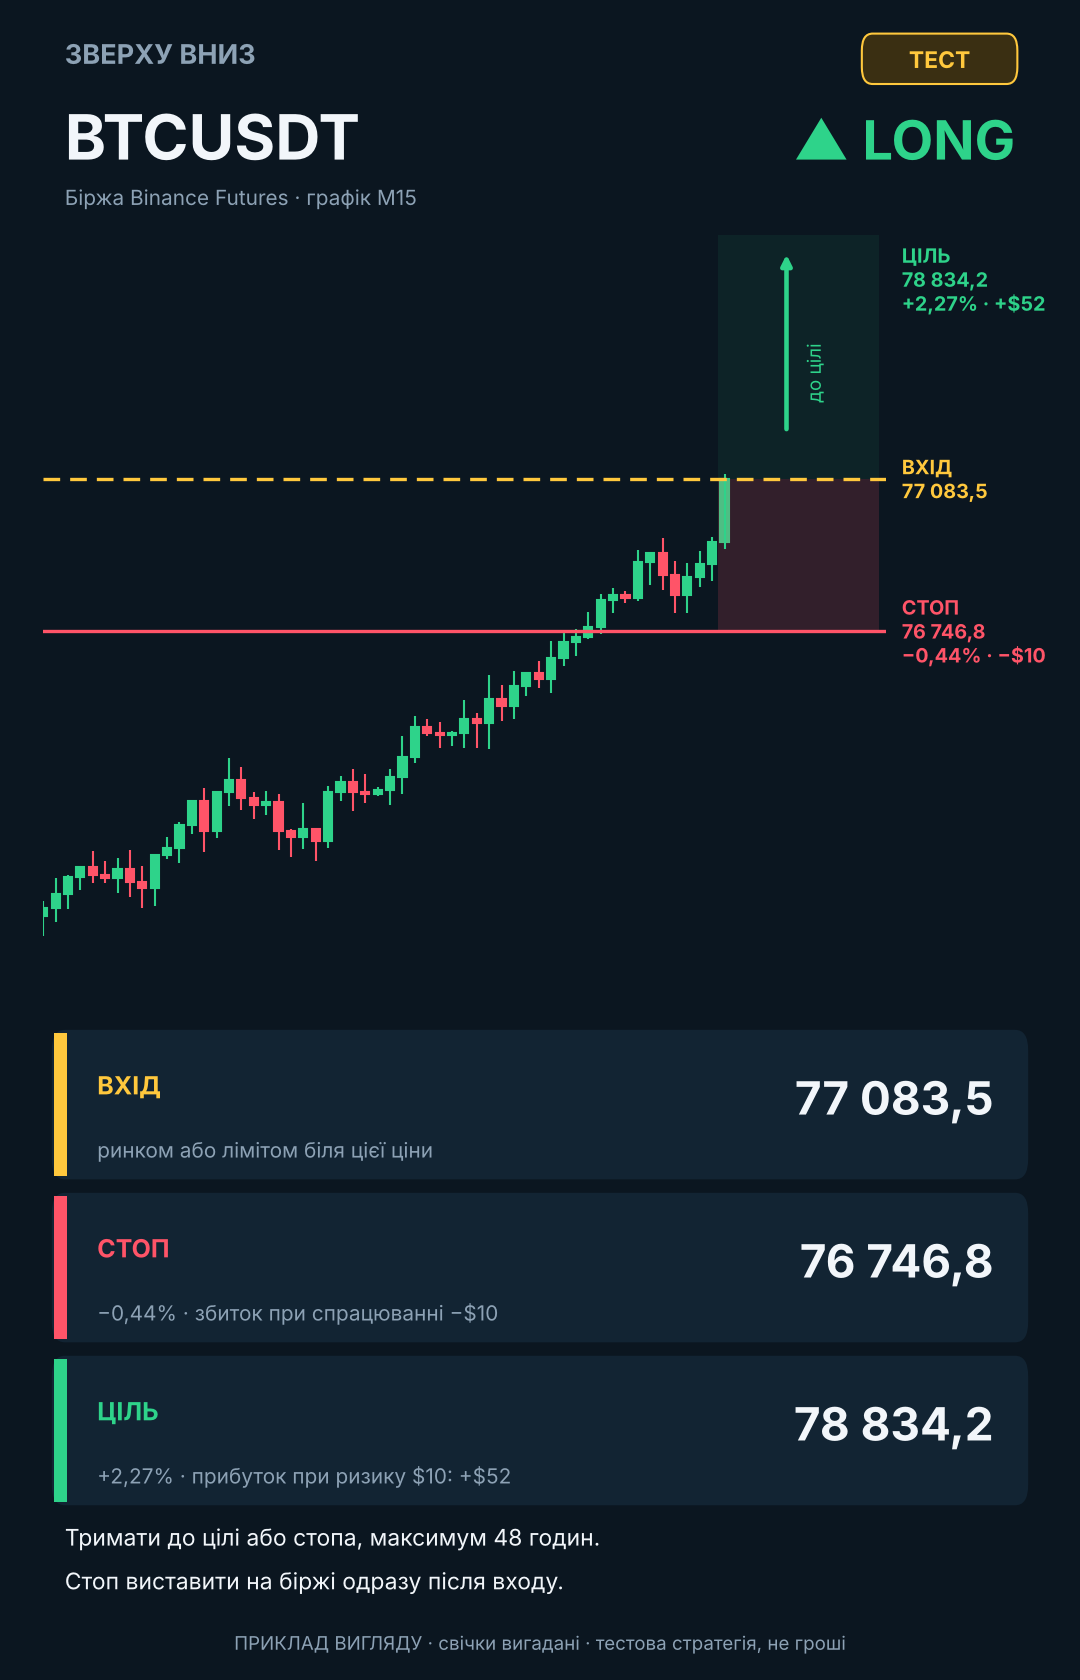
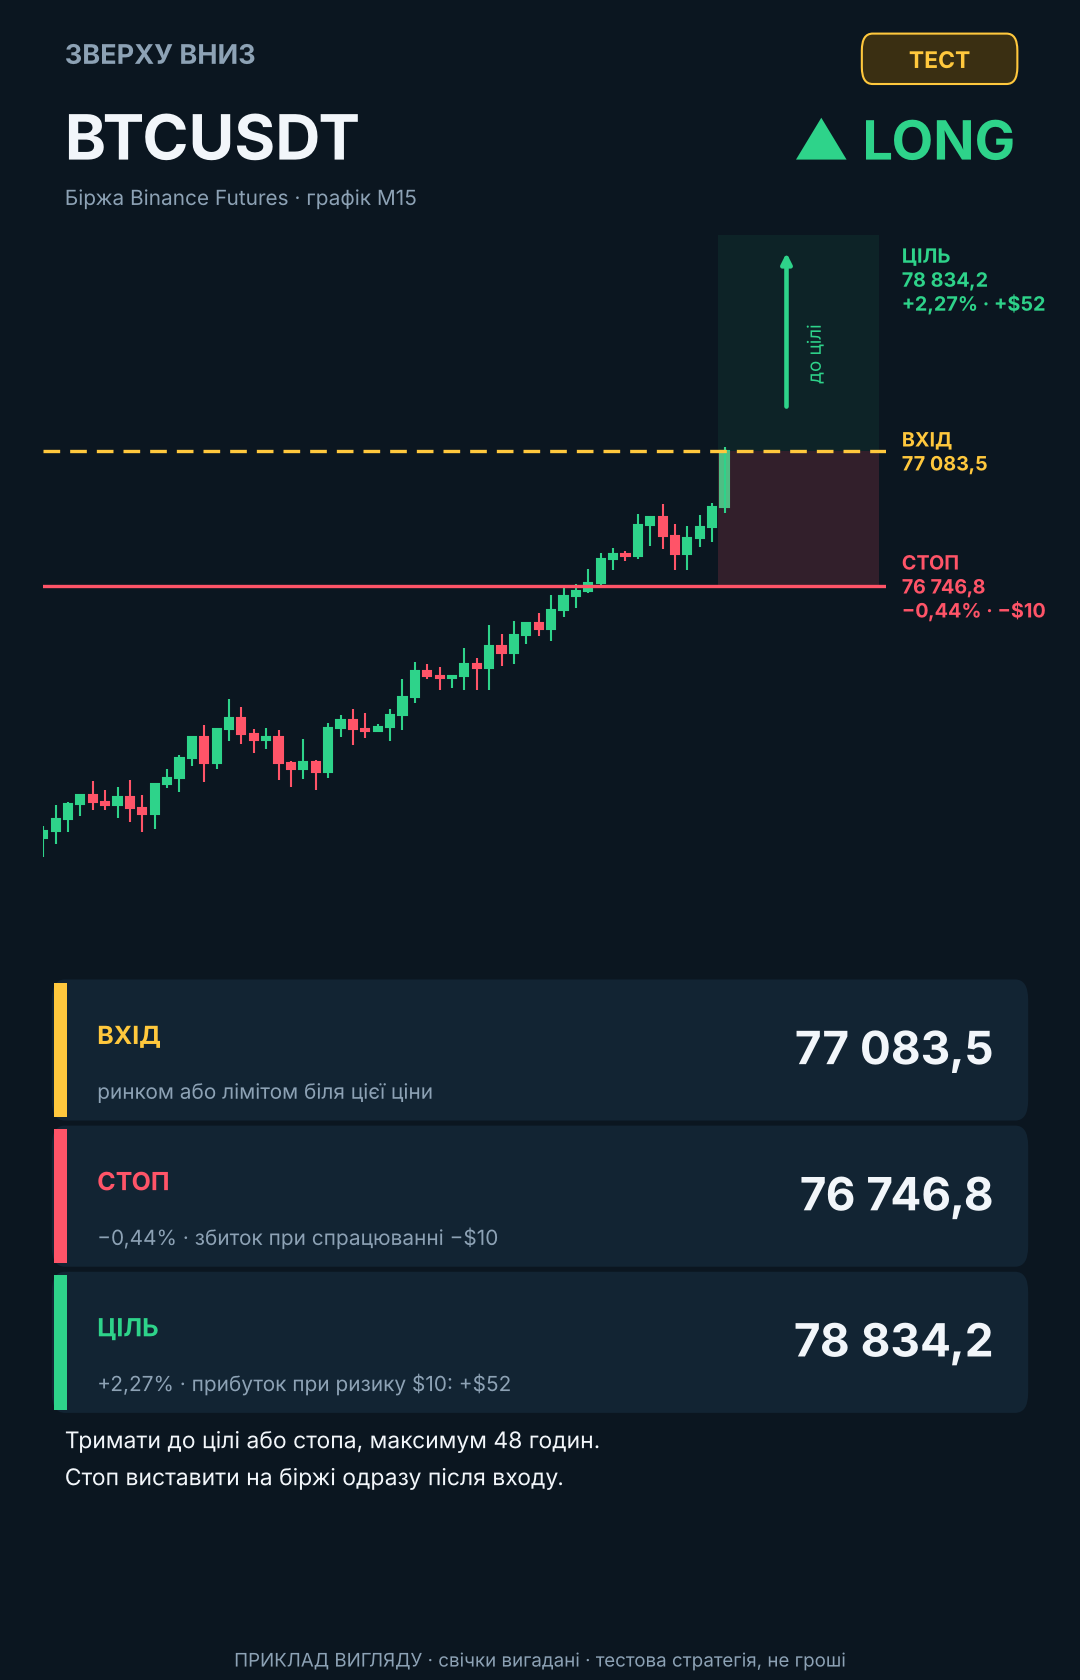
Макет картки з простим рядком про заявки біля ціни
Claude-Session: https://claude.ai/code/session_01PfKZ3KmLfycDhaKatouCoE

diff --git a/scripts/mock_td_card.py b/scripts/mock_td_card.py
@@ -20,7 +20,7 @@ def candles(n=72, seed=11, start=76400.0):
 
 def fmt(x): return f"{x:,.1f}".replace(",", " ").replace(".", ",")
 
-def render(path, with_add):
+def render(path, with_add, book=None):
     K = candles(); ent = K[-1, 3]; lo8 = K[-8:, 2].min(); sl = lo8 - 40; risk = ent - sl; tp = ent + 5.2 * risk
     sym, side = "BTCUSDT", "LONG"; risk_usd = 10; pct = lambda p: abs(p - ent) / ent * 100
     fig = plt.figure(figsize=(7.2, 11.2), facecolor=BG, dpi=150)
@@ -30,7 +30,7 @@ def render(path, with_add):
     fig.text(.06, .905, sym, color=TXT, fontsize=30, fontweight="bold")
     fig.text(.94, .905, "▲ LONG" if side == "LONG" else "▼ SHORT", color=GRN if side == "LONG" else RED, fontsize=26, fontweight="bold", ha="right")
     fig.text(.06, .878, "Біржа Binance Futures · графік M15", color=DIM, fontsize=10)
-    ax = fig.add_axes([.04, .42, .78, .44]); ax.set_facecolor(BG)
+    ax = fig.add_axes([.04, .47, .78, .39]); ax.set_facecolor(BG)
     vis = K[-56:]; ybot = min(sl, vis[:, 2].min()) - .25 * risk; ytop = ent + max(1.6 * risk, .45 * (vis[:, 1].max() - ybot))
     n = len(K)
     for i, (o, h, l, c) in enumerate(K):
@@ -54,19 +54,25 @@ def render(path, with_add):
     # блоки значень
     rows = [("ВХІД", fmt(ent), "ринком або лімітом біля цієї ціни", YEL), ("СТОП", fmt(sl), f"−{pct(sl):.2f}% · збиток при спрацюванні −\\${risk_usd}".replace(".", ","), RED),
             ("ЦІЛЬ", fmt(tp), f"+{pct(tp):.2f}% · прибуток при ризику \\${risk_usd}: +\\${risk_usd * (tp - ent) / risk:.0f}".replace(".", ","), GRN)]
-    y = .375
+    y = .405
     for lab, val, sub, col in rows:
-        fig.patches.append(FancyBboxPatch((.05, y - .075), .90, .085, boxstyle="round,pad=0.002,rounding_size=0.012", transform=fig.transFigure, facecolor=PANEL, edgecolor="none"))
-        fig.patches.append(Rectangle((.05, y - .075), .012, .085, transform=fig.transFigure, facecolor=col, edgecolor="none"))
+        fig.patches.append(FancyBboxPatch((.05, y - .07), .90, .08, boxstyle="round,pad=0.002,rounding_size=0.012", transform=fig.transFigure, facecolor=PANEL, edgecolor="none"))
+        fig.patches.append(Rectangle((.05, y - .07), .012, .08, transform=fig.transFigure, facecolor=col, edgecolor="none"))
         fig.text(.09, y - .012, lab, color=col, fontsize=12, fontweight="bold", va="top")
         fig.text(.92, y - .012, val, color=TXT, fontsize=22, fontweight="bold", ha="right", va="top")
-        fig.text(.09, y - .052, sub, color=DIM, fontsize=10, va="top")
-        y -= .097
-    fig.text(.06, y - .004, "Тримати до цілі або стопа, максимум 48 годин.", color=TXT, fontsize=11)
-    fig.text(.06, y - .03, "Стоп виставити на біржі одразу після входу.", color=TXT, fontsize=11)
-    fig.text(.5, .018, "ПРИКЛАД ВИГЛЯДУ · свічки вигадані · тестова стратегія, не гроші", color=DIM, fontsize=9, ha="center")
+        fig.text(.09, y - .047, sub, color=DIM, fontsize=10, va="top")
+        y -= .087
+    if book:
+        fig.patches.append(FancyBboxPatch((.05, y - .052), .90, .058, boxstyle="round,pad=0.002,rounding_size=0.012", transform=fig.transFigure, facecolor="none", edgecolor=BLU, linewidth=1))
+        fig.text(.07, y - .012, "Заявок біля ціни: " + book[0], color=BLU, fontsize=12, fontweight="bold", va="top")
+        fig.text(.07, y - .034, book[1], color=DIM, fontsize=9.5, va="top")
+        y -= .065
+    fig.text(.06, y - .006, "Тримати до цілі або стопа, максимум 48 годин.", color=TXT, fontsize=11)
+    fig.text(.06, y - .028, "Стоп виставити на біржі одразу після входу.", color=TXT, fontsize=11)
+    fig.text(.5, .008, "ПРИКЛАД ВИГЛЯДУ · свічки вигадані · тестова стратегія, не гроші", color=DIM, fontsize=9, ha="center")
     fig.savefig(path, facecolor=BG); plt.close(fig)
 
 out = sys.argv[1]; os.makedirs(out, exist_ok=True)
 render(os.path.join(out, "card_A.png"), False)
 render(os.path.join(out, "card_B_dobir.png"), True)
+render(os.path.join(out, "card_C_orders.png"), False, ("МАЛО", "менше, ніж зазвичай — ціна може рухатись швидше"))
